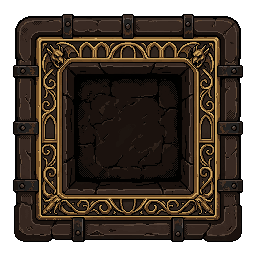
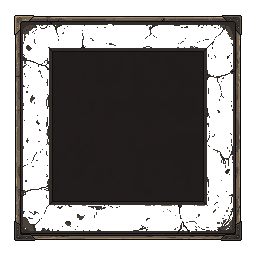
공격이 눈에 안 걸리던 것 + 칸 안의 유니코드 기호를 그림으로
병수님: "공격 모션이 너무 빠른듯" · "UI스타일이 별로라고"

**휘두름 0.26 → 0.45초(SWING_T).** 프레임이 여섯이라 0.26초면 초당 23장이다 —
눈이 못 따라가고 그냥 번쩍 지나간다. 0.45 면 13fps 로 픽셀아트의 흔한 박자고,
제일 짧은 쿨다운(해골 0.9초)의 절반이라 다음 휘두름과 겹치지도 않는다.
숫자를 battle.js 와 main.js 양쪽에 적어 두면 한쪽만 고쳐 어긋나므로 **상수로 뺐다**.

**칸 안의 아이콘이 유니코드 기호(☠ ✦ ◆ ✹ ✜)였다.** 주위가 전부 픽셀아트인데
매끈한 시스템 폰트 글리프 하나가 통째로 튄다 — 판에서 제일 겉돌던 것이 이것이다.
`create_map_object` 로 다섯 장 구웠다(아이콘은 **1생성**이라 UI 패널 20생성보다 싸다).

다섯 중 셋만 썼다. 나머지 둘은 말을 그대로 그려서 빗나갔다:
  · golem — "blocky fist" 를 **정육면체 블록**으로 그림 → 손가락 수를 세어 다시 말한다
  · amp   — "rune" 을 **십자가**로 그림 → D2 의 저주는 해골 문양이라고 못박아 다시
빗나간 둘은 _rejected/icon/ 에 두고 재굽기 중. 안 구워진 칸은 background 가 빌 뿐
깨진 이미지가 뜨지 않는다.

diff --git a/js/battle.js b/js/battle.js
@@ -17,6 +17,12 @@ import { armyCap, dmgMulOf, floorDmg, floorHp, floorN, goldFor, hpMaxOf, isGate,
 export const RING_SPAWN = 300;    // 적이 나타나는 둘레
 export const RING_HOLD  = 105;    // 소환수가 진을 치는 둘레 — 본인 앞마당
 export const CORE_R     = 26;     // 여기까지 들어오면 본인이 맞는다
+/** 한 번 휘두르는 데 걸리는 시간. **0.26초는 너무 빨랐다**(병수님: "공격 모션이 너무
+ *  빠른듯") — 프레임이 여섯이라 초당 23장, 눈이 못 따라가고 그냥 번쩍하고 지나간다.
+ *  0.45 면 초당 13장으로, 픽셀아트 공격 애니의 흔한 박자다. 제일 짧은 쿨다운(해골 0.9초)
+ *  의 절반이라 다음 휘두름과 겹치지도 않는다.
+ *  ★ 그리는 쪽에서도 이 값을 쓴다 — 숫자를 양쪽에 적어 두면 한쪽만 고쳐 어긋난다. */
+export const SWING_T    = 0.45;
 
 let seq = 0;
 export const say = (s) => { S.log.unshift(s); if (S.log.length > 6) S.log.pop(); };
@@ -110,9 +116,9 @@ export function cast(id) {
   }
   if (id === "amp") { S.amp = 8; say(`<b style="color:#6a6aff">약화의 저주</b> 8초`); }
   /* **시전하는 순간을 몸으로 보인다.** 네크로는 안 움직이니 걷기 그림이 없다 — 유일하게
-     자세가 바뀌는 때가 스킬을 쓸 때다. 소환수의 휘두름과 같은 0.26초짜리 창을 켜서,
+     자세가 바뀌는 때가 스킬을 쓸 때다. 소환수의 휘두름과 같은 길이(SWING_T)의 창을 켜서,
      그리는 쪽(main.js)이 그 사이 공격 프레임을 튼다. */
-  S.pswing = 0.26;
+  S.pswing = SWING_T;
   return true;
 }
 
@@ -172,7 +178,7 @@ export function step(dt) {
     /* **때리는 순간을 크게 만든다.** 방금 넣은 0.22초짜리 살짝 내지르기는 화면에서
        안 읽혔다(병수님: "공격모션도 없고"). 때리는 것이 보이려면 셋이 같이 가야 한다:
        **내지르는 놈** · **밀리는 놈** · **닿는 자리의 불꽃**. 하나만 있으면 안 읽힌다. */
-    u.atk = K.cd; u.swing = 0.26;
+    u.atk = K.cd; u.swing = SWING_T;
     u.sdx = (tgt.x - u.x); u.sdy = (tgt.y - u.y);       // 내지르는 방향
     const sl = Math.hypot(u.sdx, u.sdy) || 1; u.sdx /= sl; u.sdy /= sl;
     const d = K.dmg * dmgMulOf() * ampMul;
@@ -190,7 +196,7 @@ export function step(dt) {
     for (const u of S.minions) { const d = dist(m, u); if (d < td && d < 90) { td = d; tgt = u; } }
     if (tgt && td < m.r + tgt.r + 4) {
       if ((m.atk -= dt) > 0) continue;
-      m.atk = 1.0; m.swing = 0.26;
+      m.atk = 1.0; m.swing = SWING_T;
       m.sdx = (tgt.x - m.x); m.sdy = (tgt.y - m.y);
       const ml = Math.hypot(m.sdx, m.sdy) || 1; m.sdx /= ml; m.sdy /= ml;
       tgt.hp -= m.dmg; tgt.flinch = 0.18; tgt.kx = m.sdx; tgt.ky = m.sdy;

diff --git a/js/main.js b/js/main.js
@@ -1,5 +1,5 @@
 import { $, hpMaxOf, META, MINIONS, mpMaxOf, S, saveMeta, SKILLS, armyCap, xpNeed } from "./core.js";
-import { cast, CORE_R, newRun, RING_HOLD, RING_SPAWN, step } from "./battle.js";
+import { cast, CORE_R, newRun, RING_HOLD, RING_SPAWN, step, SWING_T } from "./battle.js";
 import { dirName, drawSprite8, footMetrics, preload } from "./sprite8.js";
 
 /* 전장은 캔버스, 판(UI)은 DOM. **섞지 않는다** — 앞 프로토타입에서 백여 개 DOM 을
@@ -70,9 +70,9 @@ function drawOne(base, x, gy, h, fallback, e) {
   if (e) {
     if (e.swing > 0) {
       state = "attack";
-      /* 공격 프레임은 **swing 진행도**로. swing 은 0.26 에서 0 으로 준다 → 진행도(1-swing/0.26,
+      /* 공격 프레임은 **swing 진행도**로. swing 은 SWING_T 에서 0 으로 준다 → 진행도(1-swing/SWING_T,
          0→1)를 6프레임에 선형 배분하고 끝에서 넘치지 않게 clamp. */
-      frameIdx = Math.max(0, Math.min(5, Math.floor((1 - e.swing / 0.26) * 6)));
+      frameIdx = Math.max(0, Math.min(5, Math.floor((1 - e.swing / SWING_T) * 6)));
       dir = e.sdx !== undefined ? dirName(e.sdx, e.sdy) : dirName(e.dx ?? 0, e.dy ?? 1);
     } else if (e.moving > 0) {
       state = "walk";
@@ -217,7 +217,10 @@ function draw() {
    **왜 못 쓰는지**(마나냐 시체냐)는 아래 글줄이 말한다. */
 function belt() {
   $("belt").innerHTML = SKILLS.map((s, i) =>
-    `<div class="slot" data-sk="${s.id}" title="${s.n} — ${s.d}">${s.ico}<span class="k">${i + 1}</span>
+    /* ★ 아이콘은 **그림**이다. 예전엔 유니코드 기호(☠ ✦ ◆ ✹ ✜)를 넣었는데, 주위가
+       전부 픽셀아트라 매끈한 시스템 폰트 글리프 하나가 통째로 튀었다(병수님: "UI스타일이
+       별로"). 아직 안 구워진 것은 background 가 안 뜰 뿐이라 칸이 깨지지 않는다. */
+    `<div class="slot" data-sk="${s.id}" title="${s.n} — ${s.d}"><i style="background-image:url(assets/ui/icon/${s.id}.png)"></i><span class="k">${i + 1}</span>
       <div class="cd" data-cd="${s.id}" style="height:0"></div></div>`).join("");
   $("belt").onclick = (e) => {
     const el = e.target.closest("[data-sk]");

diff --git a/style.css b/style.css
@@ -187,3 +187,9 @@ html,body{margin:0;height:100%;overflow:hidden;background:#000;color:var(--ink);
   background:linear-gradient(#c8aa6e,#6b5730);transition:width .3s}
 #gauge .xp span{position:absolute;inset:0;display:flex;align-items:center;justify-content:center;
   font-size:9px;color:#e8dcc2;letter-spacing:1px;text-shadow:0 1px 2px #000}
+
+/* ── 스킬 아이콘 ── PixelLab 으로 구운 그림. 칸 안쪽에 여백을 두고 앉힌다.
+   못 쓸 만큼 못 구워진 것은 background 가 비어 칸만 남을 뿐, 깨진 이미지가 뜨지 않는다. */
+.slot > i{position:absolute;inset:5px;background-position:center;background-repeat:no-repeat;
+  background-size:contain;image-rendering:pixelated}
+.slot.off > i{filter:grayscale(.7) brightness(.5)}     /* 못 쓰는 스킬은 죽은 색 */

diff --git a/tools/pixellab/icons.py b/tools/pixellab/icons.py
@@ -1,0 +1,78 @@
+#!/usr/bin/env python3
+"""스킬 아이콘 다섯 개를 굽는다.
+
+**판에서 제일 겉돌던 것이 이것이었다.** 칸 안에 유니코드 기호(☠ ✦ ◆ ✹ ✜)를 넣어
+뒀는데, 주변이 전부 픽셀아트라 시스템 폰트 글자 하나가 통째로 튄다. 매끈한 벡터
+글리프와 계단 진 픽셀은 같은 화면에 못 선다.
+
+`create_map_object` 로 굽는다 — 아이콘 한 장은 **1생성**이라 UI 패널(20생성)보다 훨씬 싸고,
+단일 오브젝트라 결과도 안정적이다.
+"""
+import base64, json, os, re, subprocess, sys, time
+
+HERE = os.path.dirname(os.path.abspath(__file__))
+ROOT = os.path.abspath(os.path.join(HERE, "..", ".."))
+MCP  = os.path.join(HERE, "mcp_call.py")
+
+# 칸이 어두우므로 아이콘은 **밝고 실루엣이 단순**해야 42px 에서 읽힌다.
+TONE = ("dark gothic Diablo 2 skill icon, single centered emblem on transparent background, "
+        "bold readable silhouette, bone white and gold and blood red, torchlit, "
+        "no frame, no border, no text, one object only")
+ICONS = {
+  "raise": f"{TONE}, a horned skull with a faint blue soul flame rising from it",
+  "ghoul": f"{TONE}, a clawed rotting hand bursting upward out of the ground",
+  # ★ 1차는 "blocky fist" 를 **정육면체 블록**으로 해석해 주먹이 안 나왔다.
+  # 손가락을 세어 말해야 주먹으로 그린다.
+  "golem": f"{TONE}, a huge clenched stone fist seen from the side, four thick fingers and a "
+           "thumb clearly visible, cracked clay with glowing orange fissures in the cracks",
+  "nova":  f"{TONE}, an exploding burst of crimson gore and bone shards radiating outward",
+  # ★ 1차는 "rune" 을 **십자가**로 그렸다. 저주로 읽히려면 형태를 직접 말해야 한다 —
+  # 디아블로 2 의 저주는 머리 위에 떠오르는 해골 문양이다.
+  "amp":   f"{TONE}, a skull sigil wreathed in swirling dark violet curse energy, "
+           "downward pointing arrows around it, arcane and menacing, not a cross",
+}
+COMMON = {"outline": "single color outline", "shading": "detailed shading", "detail": "high detail"}
+
+def mcp(tool, args, timeout=300):
+    r = subprocess.run([sys.executable, MCP, tool, json.dumps(args)],
+                       capture_output=True, text=True, timeout=timeout)
+    if r.returncode != 0: raise RuntimeError(f"{tool} 실패: {r.stderr[:200]}")
+    return json.loads(r.stdout)
+
+def content(r): return r.get("result", {}).get("content", [])
+def text_of(r): return "\n".join(c.get("text","") for c in content(r) if c.get("type")=="text")
+
+if __name__ == "__main__":
+    force = "--force" in sys.argv
+    todo = [k for k in ICONS
+            if force or not os.path.exists(os.path.join(ROOT,"assets","ui","icon",k+".png"))]
+    jobs = {}
+    for k in todo:                                   # 먼저 전부 줄 세운다
+        try:
+            t = text_of(mcp("create_map_object", {"description": ICONS[k],
+                                                  "width": 64, "height": 64, **COMMON}))
+            m = re.search(r"id:\s*(\S+)", t)
+            if not m: print(f"실패 {k} — {t[:150]}", flush=True); continue
+            jobs[k] = m.group(1); print(f"줄 세움 {k}", flush=True)
+        except Exception as e: print(f"실패 {k} — {e}", flush=True)
+        time.sleep(1.2)
+    for rnd in range(50):                            # 그다음 돌아가며 받는다
+        left = {k:v for k,v in jobs.items()
+                if not os.path.exists(os.path.join(ROOT,"assets","ui","icon",k+".png"))}
+        if not left: break
+        for k, oid in left.items():
+            try:
+                r = mcp("get_map_object", {"object_id": oid})
+                if "status: completed" not in text_of(r): continue
+                for c in content(r):
+                    if c.get("type")=="image" and c.get("data"):
+                        p = os.path.join(ROOT,"assets","ui","icon",k+".png")
+                        os.makedirs(os.path.dirname(p), exist_ok=True)
+                        open(p,"wb").write(base64.b64decode(c["data"]))
+                        print(f"받음 {k}", flush=True)
+            except Exception as e: print(f"대기 {k} — {str(e)[:60]}", flush=True)
+            time.sleep(1)
+        if any(not os.path.exists(os.path.join(ROOT,"assets","ui","icon",k+".png")) for k in jobs):
+            time.sleep(15)
+    got=[k for k in ICONS if os.path.exists(os.path.join(ROOT,"assets","ui","icon",k+".png"))]
+    print(f"══ {len(got)}/{len(ICONS)}장  " + " ".join(got), flush=True)

diff --git a/tools/pixellab/ui.py b/tools/pixellab/ui.py
@@ -23,9 +23,14 @@ ROOT = os.path.abspath(os.path.join(HERE, "..", ".."))
 MCP  = os.path.join(HERE, "mcp_call.py")
 
 # 디아블로 2 의 그 판 — 돌과 무쇠, 금장, 횃불빛. 채도는 낮게.
-TONE = ("dark gothic Diablo 2 game interface, carved dark stone and rusted iron with "
-        "ornate gold filigree trim, torchlit, desaturated, grim medieval")
-PAL = "dark brown stone, black iron, antique gold"
+# ★ 1차 결과가 **보라·자주빛 벽돌**로 나왔다. 디아블로 2 의 판은 그 색이 아니다 —
+# 축축한 회갈색 돌에 어두운 금장이다. 색을 안 적으면 모델이 제 취향으로 칠하므로
+# **빼야 할 색까지 적는다**(no purple, no violet). 장식도 「절제」를 명시한다:
+# 1차는 금장 스크롤이 사방에 붙어 시끄러웠다(병수님: "UI스타일이 별로").
+TONE = ("dark gothic Diablo 2 game interface, carved cold grey-brown stone and black iron, "
+        "restrained thin dark gold trim only, torchlit, heavily desaturated, grim medieval, "
+        "no purple, no violet, no magenta, no bright colors, minimal ornament")
+PAL = "cold grey stone, warm brown, black iron, dark antique gold"
 
 # id: (설명, 가로, 세로, 배경제거)
 UI = {
@@ -45,15 +50,22 @@ UI = {
   # 스킬 칸 — 빈 것과 켜진 것
   # 1차 시도는 조각 수십 개가 늘어선 **UI 킷 시트**가 나왔다("slot" 이 곧 시트라는 학습).
   # 한 칸만 나오게 하려면 "칸 하나가 화면을 꽉 채운다"고 못박아야 한다.
-  "slot":       (f"{TONE}, ONE single empty square socket filling the entire image edge to "
-                 "edge, dark recessed stone interior with a thin gold beveled border, "
-                 "front view, perfectly centered, only one object, not a sheet, "
-                 "no grid of items, no icon, no text", 256, 256, True),
-  "slot_on":    (f"{TONE}, a single square skill slot socket glowing with warm gold light, "
-                 "bright gold border, front view, centered, no icon", 256, 256, True),
+  # ★ 1차·2차 모두 **액자**가 나왔다 — 두꺼운 금장 테에 속이 텅 빈 네모. D2 의 칸은
+  # 그냥 벽에 파인 어두운 홈이다. "frame" 이라는 말을 빼고 "socket / recess" 로 못박는다.
+  "slot":       (f"{TONE}, ONE plain square recess carved into stone, filling the whole image "
+                 "edge to edge, flat very dark interior, only a 1px bevel at the rim, "
+                 "no decorative frame, no filigree, no corner ornament, no icon, no text, "
+                 "not a sheet, only one object", 256, 256, True),
+  "slot_on":    (f"{TONE}, ONE plain square recess carved into stone with a faint warm amber "
+                 "glow inside, filling the whole image edge to edge, thin bright rim, "
+                 "no decorative frame, no filigree, no icon, no text, only one object",
+                 256, 256, True),
   # 글줄이 앉는 상자
-  "logbox":     (f"{TONE}, a sunken rectangular parchment-dark message box with a thin "
-                 "gold border and worn corners, empty interior, no text", 688, 384, True),
+  # ★ 1차는 금장 스크롤이 네 모서리에 크게 붙어 시끄러웠다. 글을 읽는 상자이므로
+  # 테는 얇을수록 좋다 — 장식을 명시적으로 뺀다.
+  "logbox":     (f"{TONE}, a plain sunken rectangular panel of dark stone with a thin simple "
+                 "border, flat empty interior, no scrollwork, no corner ornament, "
+                 "no filigree, no text", 688, 384, True),
   # 창(인벤토리·능력치)의 틀
   # 600x450 은 검증에서 튕겼다 — 그 가로세로비의 상한은 600x448 이다(1차 실패 원인).
   "window":     (f"{TONE}, an ornate rectangular panel frame with gold corner scrollwork "
